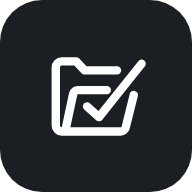
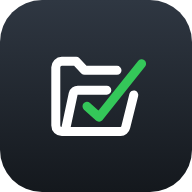
Ícone da aplicação: fundo ardósia, pasta branca e visto verde
- iPhone (apple-touch), Android (normal e maskable), favicon SVG com traço mais grosso e PNG de 32px

Claude-Session: https://claude.ai/code/session_01RkGEQgVjSrnwohXQbquHkw

diff --git a/docs/sw.js b/docs/sw.js
@@ -1,6 +1,6 @@
 // Service worker do JobTracker: permite instalar a página como aplicação e abri-la sem rede.
 // Vai sempre primeiro à rede (as vagas mudam duas vezes por dia); só usa a cópia guardada se não houver rede.
-const CACHE = "jobtracker-v2";
+const CACHE = "jobtracker-v3";
 const CORE = ["./", "index.html", "jobs.json", "manifest.json", "logo.png", "icon-192.png", "favicon-32.png"];
 
 self.addEventListener("install", e => {
